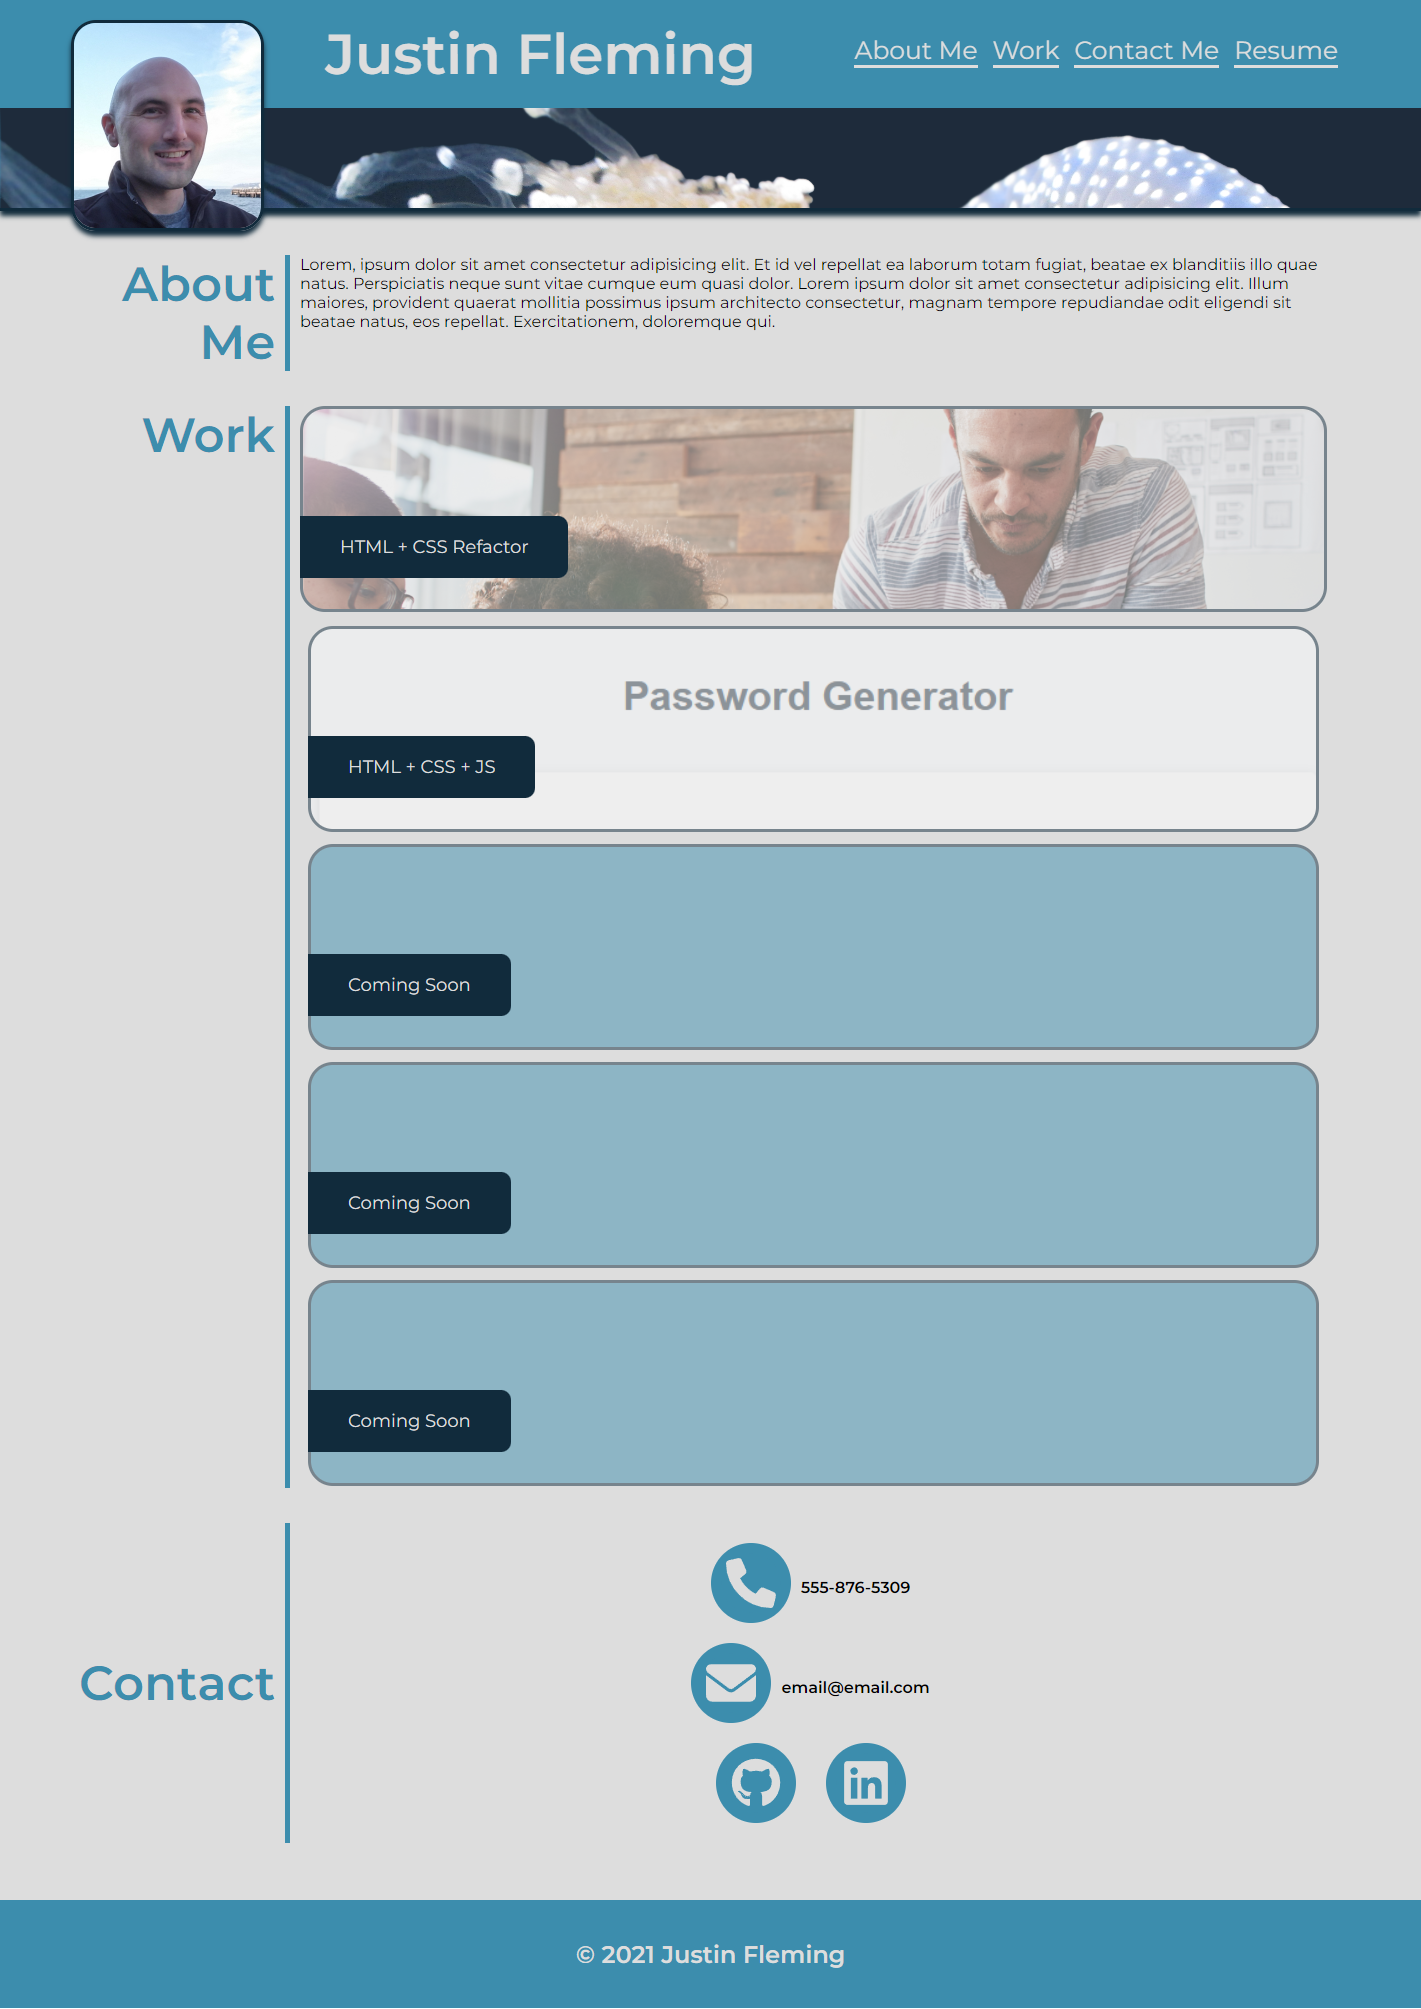
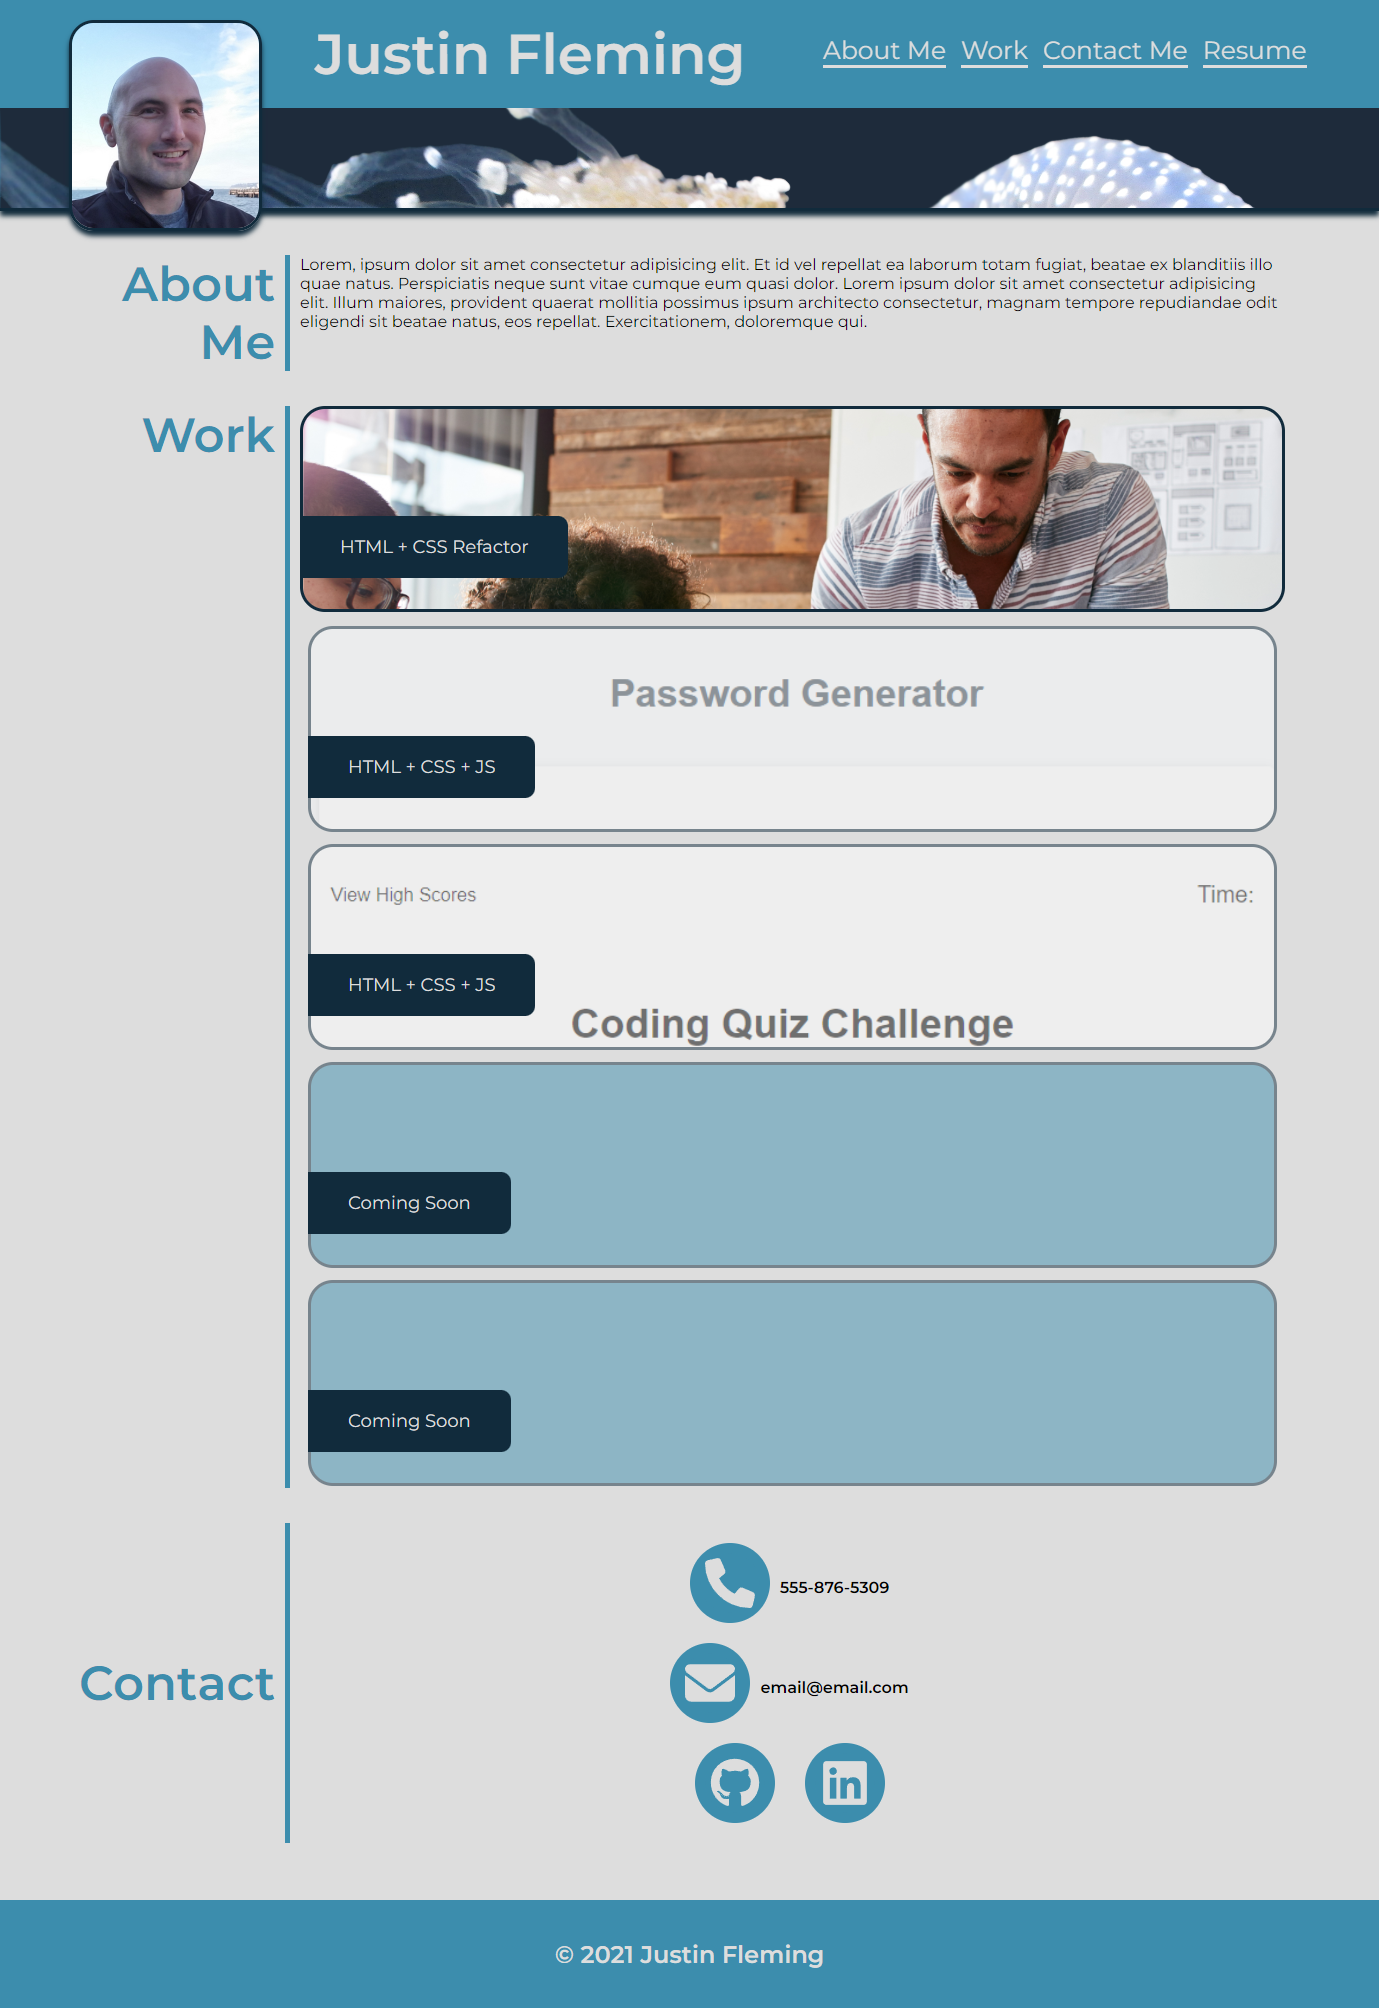
added updated screenshot of portfolio

diff --git a/assets/css/style.css b/assets/css/style.css
@@ -176,6 +176,10 @@ footer h2 {
 
 .sub-proj3 {
     background-image: url(../images/quiz-game.png);
+    background-position-x: center;
+    background-position: 50% 30%;
+    /* background-position: 0 -30px; */
+    background-size: 100%;
 }
 
 /* Hover functionality */
